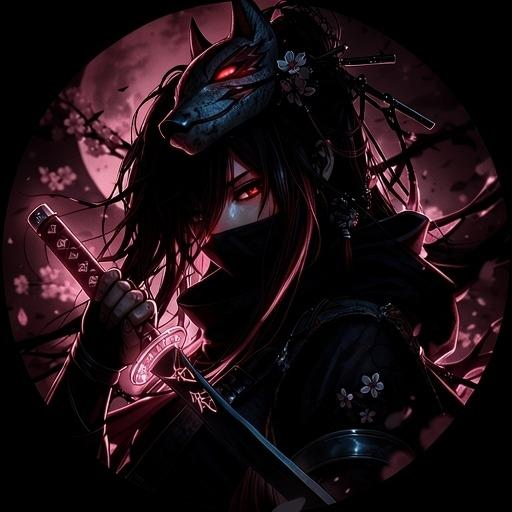
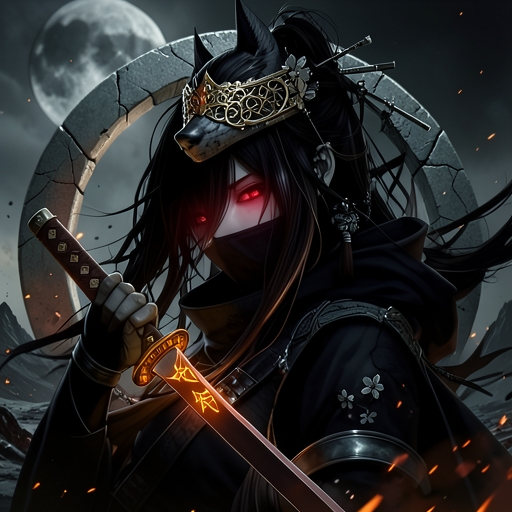
.
.

diff --git a/index.html b/index.html
@@ -7,7 +7,9 @@
     <link rel="preconnect" href="https://fonts.googleapis.com">
     <link rel="preconnect" href="https://fonts.gstatic.com" crossorigin>
     <link href="https://fonts.googleapis.com/css2?family=Cinzel:wght@400;500;600;700;800&family=Inter:wght@300;400;500;600;700&display=swap" rel="stylesheet">
-    <link rel="icon" href="images/Ah.png">
+    <link rel="icon" type="image/png" sizes="512x512" href="images/Ah.png?v=2">
+    <link rel="shortcut icon" type="image/x-icon" href="favicon.ico?v=2">
+    <link rel="apple-touch-icon" sizes="512x512" href="images/Ah.png?v=2">
     <style>
         :root {
             --bg: #090b0f;
@@ -463,8 +465,7 @@
         .tag.stat-fervor, .active-filter-chip.stat-fervor { color: #fdb980; border-color: rgba(251,146,60,0.35); background: rgba(251,146,60,0.08); }
 
         .rarity-switcher { display: flex; align-items: center; gap: 4px; margin-bottom: 6px; }
-        .rarity-label { font-size: 0.52rem; text-transform: uppercase; letter-spacing: 0.08em; color: var(--gold); margin-right: 3px; opacity: 0.85; }
-        .rarity-btn {
+.rarity-btn {
             padding: 3px 10px; font-size: 0.59rem; font-weight: 700; letter-spacing: 0.06em;
             border-radius: var(--radius-pill); border: 1px solid var(--border);
             background: rgba(255,255,255,0.04); color: var(--text);
@@ -510,9 +511,7 @@
         .type-color-glider { color: #67e8f9; text-shadow: 0 0 9px rgba(6,182,212,0.4); }
 
         .stat-value { font-size: 0.75rem; font-weight: 600; color: #ffffff; margin-left: 2px; text-shadow: 0 0 4px rgba(255,255,255,0.15); }
-        .item-damage-line { font-size: 0.75rem; color: #ffffff; margin-bottom: 4px; font-weight: 600; }
-
-        .fav-star {
+.fav-star {
             cursor: pointer; font-size: 1.35em; margin-right: 4px; color: var(--text-dim);
             transition: all 0.2s ease; user-select: none; padding: 3px;
             margin-left: -3px; margin-top: -3px; margin-bottom: -3px;
@@ -723,27 +722,13 @@
         .loot-table thead th { background: #11141d; box-shadow: 0 1px 0 var(--border); }
         .loot-table tbody td:first-child { width: 22%; }
         .loot-table tbody td:last-child { width: 25%; }
-        .build-overview {
-            position: relative; overflow: hidden; margin-bottom: 14px; padding: 22px 24px;
-            border: 1px solid rgba(212,167,69,.25); border-radius: var(--radius);
-            background: linear-gradient(135deg,rgba(212,167,69,.12),rgba(91,140,189,.07) 55%,var(--surface));
-            box-shadow: var(--shadow), inset 0 1px rgba(255,255,255,.04);
-        }
-        .build-overview:after { content:''; position:absolute; width:260px; height:260px; right:-90px; top:-150px; border-radius:50%; background:rgba(212,167,69,.08); filter:blur(4px); pointer-events:none; }
-        .build-kicker { color:var(--gold); font-size:.63rem; font-weight:800; letter-spacing:.14em; text-transform:uppercase; margin-bottom:6px; }
-        .build-title { color:var(--text-bright); font:700 clamp(1.25rem,2.2vw,1.8rem)/1.2 var(--font-display); letter-spacing:.035em; }
-        .build-summary { display:flex; gap:8px; flex-wrap:wrap; margin-top:13px; }
-        .summary-chip { display:inline-flex; align-items:center; gap:6px; padding:5px 10px; border-radius:var(--radius-pill); border:1px solid var(--border-light); background:rgba(0,0,0,.22); color:var(--text-dim); font-size:.68rem; font-weight:600; }
-        .summary-chip strong { color:var(--text-bright); }
-        .viewer-table-shell { overflow:auto; border:1px solid var(--border); border-radius:var(--radius); background:var(--surface); box-shadow:var(--shadow); }
+.viewer-table-shell { overflow:auto; border:1px solid var(--border); border-radius:var(--radius); background:var(--surface); box-shadow:var(--shadow); }
         .viewer-table-shell .loot-table { min-width:920px; }
         .source-list { display:grid; gap:5px; min-width:210px; }
         .source-entry { display:flex; gap:6px; align-items:flex-start; line-height:1.35; padding:4px 7px; border-radius:6px; background:rgba(255,255,255,.025); }
         .source-entry:first-child { background:rgba(91,140,189,.08); }
         .source-bullet { color:var(--accent); font-size:.68rem; padding-top:1px; }
-        .source-more { color:var(--text-dim); font-size:.63rem; margin-top:2px; }
-        .unique-note { color:var(--text-muted); font-size:.62rem; margin-top:4px; }
-        .rarity-switcher { margin:6px 0 0 31px; gap:2px; }
+.rarity-switcher { margin:6px 0 0 31px; gap:2px; }
         .rarity-switcher .rarity-btn { padding:2px 7px; font-size:.56rem; }
         #save-build-btn:disabled { opacity:.42; cursor:not-allowed; filter:saturate(.35); transform:none; box-shadow:none; }
         #builds-wrapper #builds-dropdown { left:auto; right:0; width:min(430px,calc(100vw - 24px)); min-width:0; flex-direction:column; flex-wrap:nowrap; }
@@ -810,8 +795,7 @@
             .search-wrapper { flex:1; }
             .search-input,.search-input:focus { width:100%; }
             .filter-actions { width:100%; margin-left:0; overflow-x:auto; padding-bottom:2px; }
-            .build-overview { padding:18px; }
-            .viewer-table-shell { border:0; overflow:visible; background:transparent; box-shadow:none; }
+.viewer-table-shell { border:0; overflow:visible; background:transparent; box-shadow:none; }
             .viewer-table-shell .loot-table { min-width:0; }
             .source-list { min-width:0; }
             .rarity-switcher .rarity-btn { min-height:30px; padding:5px 8px; }
@@ -1499,8 +1483,6 @@
         const container=document.getElementById('zones-container');
         const searchLower=searchQuery.toLowerCase();
         const grouped=new Map();
-
-        // A loadout is item-centric: one item can legitimately drop in several dungeons.
         allItemsMap.forEach((item,id)=>{
             if(!favoriteIds.has(item.nameId))return;
             if(searchQuery&&!getItemName(item).toLowerCase().includes(searchLower))return;